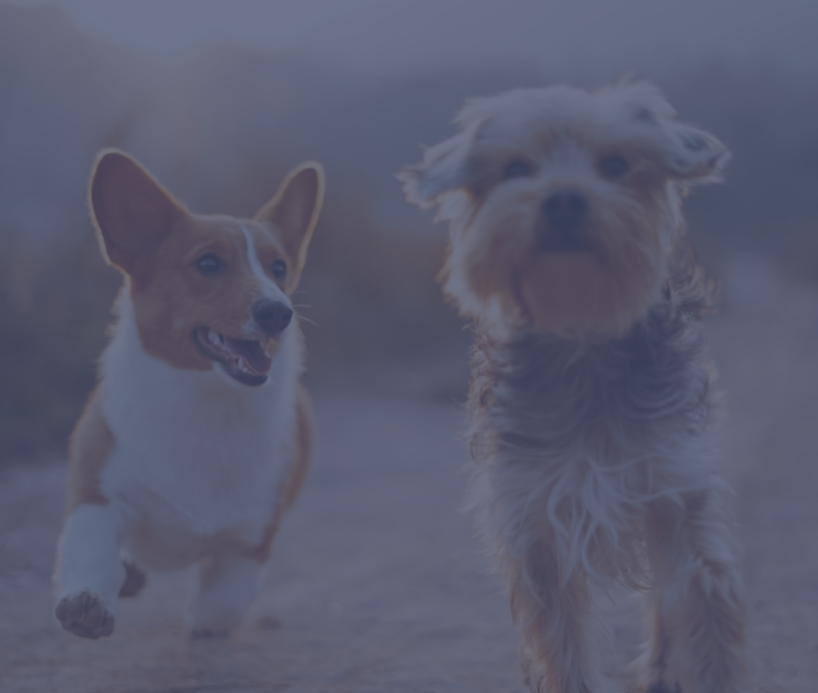
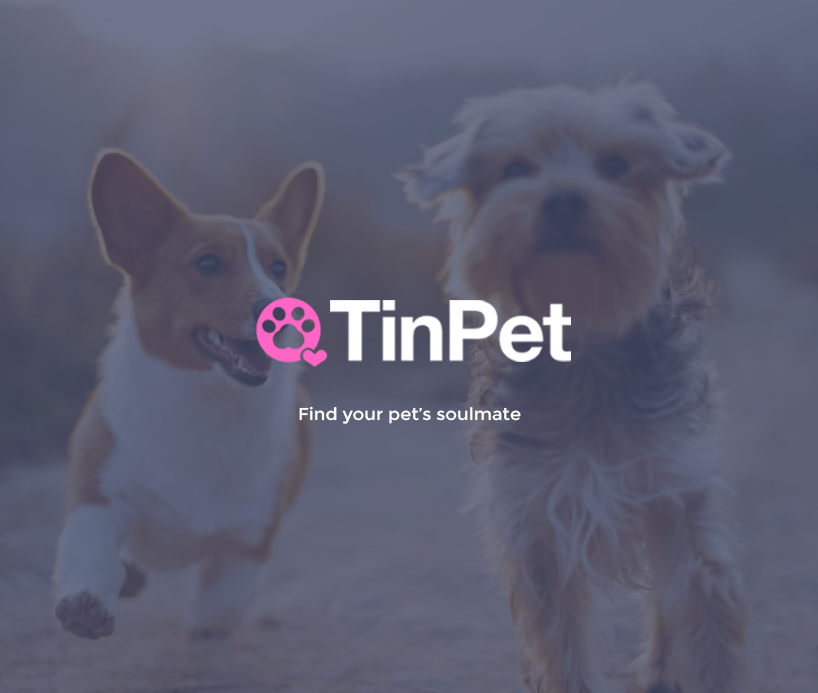
responsive

Changed region(s): [[0.3056, 0.4242, 0.7029, 0.5455], [0.3667, 0.5758, 0.6418, 0.6061]]

diff --git a/src/Components/Register/Register.jsx b/src/Components/Register/Register.jsx
@@ -7,59 +7,56 @@ function Register() {
     return (
         <div className={styles.MainRegis}>
 
-            <div className={styles.doggo}>
-                <div className={styles.tinlog}>
-                    <img src="https://ik.imagekit.io/prequel/assets/TinPet_Logo_JksXcgg-ql9N.png" />
+                <div className={styles.doggo}>
+                    <img src={dogbg} alt="login bg"></img>
                 </div>
-                <img className={styles.tinpetlogo} src="https://ik.imagekit.io/prequel/assets/TinPet-white_noRAcRA2FAdY.png" />
-                <p className={styles.tagline}>Find your pet's soulmate</p>
-                <img src={dogbg} alt="login bg"></img>
-            </div>
-            
-            <div className={styles.Regisbox}>
-                <div>
-                    <h1>SIGN UP</h1>
-                </div>
-                <div className={styles.etxt}>
-                    Email
+
+            <div className={styles.boxit}>
+                <div className={styles.Regisbox}>
+                    <div>
+                        <h1>SIGN UP</h1>
                     </div>
-                <div>
-                    <input type="email" className={styles.blocks} />
-                </div>
-
-                <div className={styles.username}>
-                    Full Name
-                </div>
-                <div>
-                    <input type="text" className={styles.blocks} />
-                </div>
-
-                <div className={styles.pwd}>
-                    Password
+                    <div className={styles.etxt}>
+                        Email
                     </div>
-                <div>
-                    <input type="password" className={styles.blocks}></input>
-                </div>
-
-                <div className={styles.pwd}>
-                    Confirm Password
+                    <div>
+                        <input type="email" className={styles.blocks} />
                     </div>
-                <div>
-                    <input type="password" className={styles.blocks} />
-                </div>
 
-                <NavLink to="/login">
-                    <button className={styles.regisbtn}>
-                        Sign Up
+                    <div className={styles.username}>
+                        Full Name
+                </div>
+                    <div>
+                        <input type="text" className={styles.blocks} />
+                    </div>
+
+                    <div className={styles.pwd}>
+                        Password
+                    </div>
+                    <div>
+                        <input type="password" className={styles.blocks}></input>
+                    </div>
+
+                    <div className={styles.pwd}>
+                        Confirm Password
+                    </div>
+                    <div>
+                        <input type="password" className={styles.blocks} />
+                    </div>
+
+                    <NavLink to="/login">
+                        <button className={styles.regisbtn}>
+                            Sign Up
                     </button>
-                </NavLink>
+                    </NavLink>
 
-                <div className={styles.footertxt}>
-                    Get the App.
+                    <div className={styles.footertxt}>
+                        Get the App.
             </div>
-                <button className={styles.footbtn}>
-                    Play Store
+                    <button className={styles.footbtn}>
+                        Play Store
             </button>
+                </div>
             </div>
         </div>
     );

diff --git a/src/Components/Login/Login.jsx b/src/Components/Login/Login.jsx
@@ -8,47 +8,45 @@ function Login() {
         <div className={styles.Main}>
 
             <div className={styles.doggo}>
-                <div className={styles.tinlog}>
-                    <img src="https://ik.imagekit.io/prequel/assets/TinPet_Logo_JksXcgg-ql9N.png" />
-                </div>
-                    <img className={styles.tinpetlogo} src="https://ik.imagekit.io/prequel/assets/TinPet-white_noRAcRA2FAdY.png"/>
-                <p className={styles.tagline}>Find your pet's soulmate</p>
                 <img src={dogbg} alt="login bg"></img>
             </div>
 
-            <div className={styles.Loginbox}>
-                <div>
-                    <h1>LOG IN</h1>
-                </div>
-                <div className={styles.etxt}>
-                    Email
-                    </div>
-                <div>
-                    <input type="email" className={styles.blocks}>
-                    </input>
-                </div>
-                <div className={styles.pwd}>
-                    Password
-                    </div>
-                <div>
-                    <input type="password" className={styles.blocks}></input>
-                </div>
-                <div>
-                    <a className={styles.signup} href="/register"> Sign Up?</a>
-                </div>
+            <div className={styles.Boxi}>
 
-                <NavLink to="/">
-                    <button className={styles.btn}>
-                        Login
+                <div className={styles.Loginbox}>
+                    <div>
+                        <h1>LOG IN</h1>
+                    </div>
+                    <div className={styles.etxt}>
+                        Email
+                    </div>
+                    <div>
+                        <input type="email" className={styles.blocks}>
+                        </input>
+                    </div>
+                    <div className={styles.pwd}>
+                        Password
+                    </div>
+                    <div>
+                        <input type="password" className={styles.blocks2}></input>
+                    </div>
+                    <div>
+                        <a className={styles.signup} href="/register"> Sign Up?</a>
+                    </div>
+
+                    <NavLink to="/">
+                        <button className={styles.btn}>
+                            Login
                     </button>
-                </NavLink>
+                    </NavLink>
 
-                <div className={styles.footertxt}>
-                    Get the App.
+                    <div className={styles.footertxt}>
+                        Get the App.
             </div>
-                <button className={styles.footbtn}>
-                    Play Store
+                    <button className={styles.footbtn}>
+                        Play Store
             </button>
+                </div>
             </div>
         </div>
     );

diff --git a/src/Components/Login/Login.module.css b/src/Components/Login/Login.module.css
@@ -2,44 +2,12 @@
   display: flex;
   position: relative;
   margin-top: 3%;
-  margin-left: 15%;
+  margin-left: 5%;
   margin-right: 15%;
 }
 
-.mainlogo {
-  position: absolute;
-  width: 234px;
-  height: 59px;
-  top: 405px;
-  left: 436;
-}
-
-.tinlog {
-  margin-left: 27%;
-  margin-top: 32%;
-  position: absolute;
-}
-
-.tinlog img {
-  width: 63px;
-  height: 63px;
-}
-
-.tinpetlogo {
-  margin-left: 35%;
-  margin-top: 32%;
-  position: absolute;
-}
-
-.tagline {
-  font-size: 18px;
-  color: white;
-  margin-left: 34%;
-  margin-top: 42%;
-  position: absolute;
-}
-
 .Loginbox {
+  flex-wrap: wrap;
   border: 1px solid;
   border-color: #C4C4C4;
   border-radius: 8px;
@@ -54,6 +22,7 @@
 }
 
 .doggo img {
+  display: flex;
   border-radius: 8px;
   align-self: center;
 }
@@ -62,37 +31,50 @@
   font-size: 18px;
   font-weight: bold;
   margin-top: 15%;
-  margin-left: 3%;
+  margin-left: 4%;
 }
 
 .pwd {
   font-size: 18px;
   font-weight: bold;
   margin-top: 5%;
-  margin-left: 3%;
+  margin-left: 4%;
 }
 
 .blocks {
   background-color: #f4f4f4;
-  width: 352px;
+  width: 85%;
   height: 50px;
   border: none;
   border: 1px solid;
   border-color: #C4C4C4;
   border-radius: 5px;
-  margin-left: 3%;
-  margin-bottom: 5%;
   padding-left: 10px;
   padding-right: 10px;
+  margin-left: 4%;
+}
+
+.blocks2 {
+  background-color: #f4f4f4;
+  width: 85%;
+  height: 50px;
+  border: none;
+  border: 1px solid;
+  border-color: #C4C4C4;
+  border-radius: 5px;
+  padding-left: 10px;
+  padding-right: 10px;
+  margin-left: 4%;
+  margin-bottom: 10%;
 }
 
 .signup {
+  align-self: flex-end;
   color: #ff65c5;
   font-size: 14px;
+  margin-left: 75%;
   line-height: 17px;
   text-decoration: none;
-  position: relative;
-  left: 80%;
 }
 
 .signup:hover {
@@ -103,10 +85,9 @@
   color: white;
   font-weight: bold;
   background-color: #ff65c5;
-  position: absolute;
-  margin-top: 2%;
-  margin-left: 25px;
-  width: 351px;
+  margin-top: 7%;
+  margin-left: 4%;
+  width: 90%;
   height: 55px;
   border: none;
   border-radius: 5px;
@@ -120,7 +101,7 @@
 
 .footertxt {
   margin-left: 40%;
-  margin-top: 55%;
+  margin-top: 30%;
 }
 
 .footbtn {
@@ -128,10 +109,10 @@
   border: none;
   border-radius: 5px;
   background-color: #3e4c6f;
-  margin-top: 8%;
-  margin-left: 6%;
   width: 351px;
   height: 55px;
+  margin-top: 10%;
+  margin-left: 6%;
 }
 
 .footbtn:hover {

diff --git a/src/Components/Register/Register.module.css b/src/Components/Register/Register.module.css
@@ -1,45 +1,13 @@
 .MainRegis {
   display: flex;
   position: relative;
-  margin-left: 15%;
+  margin-left: 5%;
   margin-top: 3%;
   margin-right: 15%;
 }
 
-.mainlogo {
-  position: absolute;
-  width: 234px;
-  height: 59px;
-  top: 405px;
-  left: 436;
-}
-
-.tinlog {
-  margin-left: 27%;
-  margin-top: 32%;
-  position: absolute;
-}
-
-.tinlog img {
-  width: 63px;
-  height: 63px;
-}
-
-.tinpetlogo {
-  margin-left: 35%;
-  margin-top: 32%;
-  position: absolute;
-}
-
-.tagline {
-  font-size: 18px;
-  color: white;
-  margin-left: 34%;
-  margin-top: 42%;
-  position: absolute;
-}
-
 .Regisbox {
+  flex-wrap: wrap;
   border: 1px solid;
   border-color: #c4c4c4;
   border-radius: 8px;
@@ -54,6 +22,7 @@
 }
 
 .doggo img {
+  display: flex;
   border-radius: 8px;
   align-self: center;
 }
